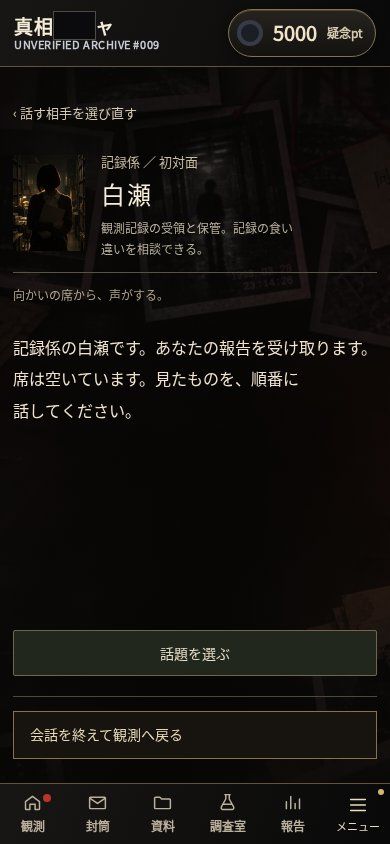
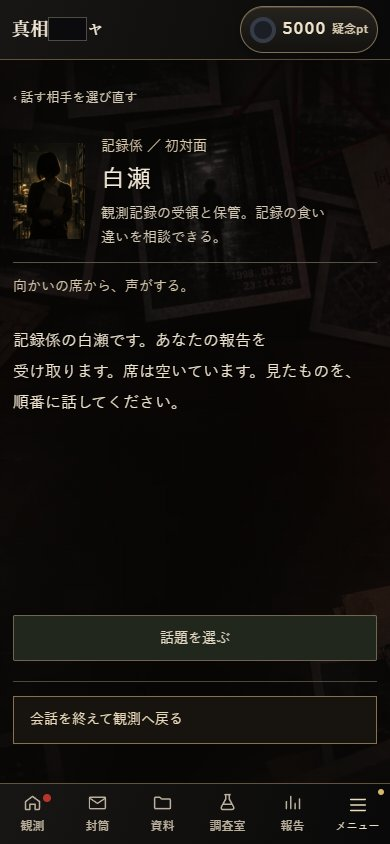
Improve colleague conversation readability (#254)

diff --git a/assets/observation.css b/assets/observation.css
@@ -79,7 +79,7 @@ body.watch-mind-quiet #watch-veil{display:none}
 .watch-people{display:grid;grid-template-columns:repeat(3,minmax(0,1fr));gap:10px;margin:16px 0}
 .watch-person{padding:0 0 14px;overflow:hidden;text-align:left;background:#141711;border:1px solid #575447;border-radius:2px;color:#e6dcc6;font-family:var(--f-body);cursor:pointer}
 .watch-person img{display:block;width:100%;height:auto;aspect-ratio:3/4;object-fit:cover}.watch-person b,.watch-person small{display:block;margin:8px 10px 0}.watch-person b{font-size:19px;font-weight:500}.watch-person small{font-size:12px;line-height:1.5;color:#c1b8a5}
-.watch-speaker{display:flex;align-items:center;gap:20px;padding-bottom:18px;border-bottom:1px solid #595345}.watch-speaker img{width:90px;height:120px;object-fit:cover;border-radius:2px}.watch-speaker>div{min-width:0}.watch-speaker small{font:13px/1.6 var(--f-body);color:#c7bba2}.watch-speaker h2{margin:4px 0 10px;font:500 25px/1.4 var(--f-body);letter-spacing:.15em}.watch-speaker p{margin:0;color:#b9b09e;font:12px/1.8 var(--f-body)}
+.watch-speaker{display:flex;align-items:center;gap:20px;padding-bottom:18px;border-bottom:1px solid #595345}.watch-speaker img{width:90px;height:120px;object-fit:cover;border-radius:2px}.watch-speaker>div{min-width:0}.watch-speaker small{font:14px/1.6 var(--f-body);color:#d9c9ab}.watch-speaker h2{margin:4px 0 10px;font:500 25px/1.4 var(--f-body);letter-spacing:.15em}.watch-speaker p{margin:0;color:#d5cab6;font:14px/1.7 var(--f-body)}
 .watch-conversation blockquote{margin:22px 0 26px;padding:0;border:0;min-height:6em;color:#eee3cf;font:16px/2 var(--f-body);overflow-wrap:anywhere}
 .watch-topics{display:grid;grid-template-columns:repeat(2,minmax(0,1fr));gap:8px}.watch-choice{min-height:48px;padding:10px 8px;border:1px solid #70664f;background:#22271e;border-radius:2px;color:#e5dbc6;font:14px/1.6 var(--f-body);cursor:pointer}
 .watch-exits{display:flex;gap:12px;margin-top:14px}.watch-exits button{flex:1;min-width:0;min-height:48px;font:13px/1.5 var(--f-body);white-space:normal}
@@ -94,14 +94,14 @@ body.watch-mind-quiet #watch-veil{display:none}
 .colleague-scene .watch-person{display:grid;grid-template-columns:74px minmax(0,1fr);gap:14px;padding:12px;align-items:center}
 .colleague-scene .watch-person img{width:74px;height:100px;object-fit:cover}
 .colleague-scene .watch-person b,.colleague-scene .watch-person small{margin:0 0 5px}
-.watch-person-description{display:block;font:13px/1.7 var(--f-body);color:#c9bfac}
-.watch-person-action{display:block;margin-top:7px;font:13px/1.5 var(--f-body);color:#ece0c5}
+.watch-person-description{display:block;font:14px/1.7 var(--f-body);color:#d7cdb9}
+.watch-person-action{display:block;margin-top:7px;font:14px/1.5 var(--f-body);color:#f0e4cc}
 .colleague-scene .watch-speaker{gap:16px;padding:12px 0}
 .colleague-scene .watch-speaker img{width:72px;height:96px}
 .colleague-scene .watch-speaker h1{font-size:24px;margin:3px 0 6px}
 .colleague-scene .watch-conversation blockquote{min-height:0;margin:16px 0 24px;font:16px/1.95 var(--f-body)}
-.watch-conversation-cue{color:#afa58f;font:12px/1.6 var(--f-body);margin:12px 0}
-.watch-selected-topic,.watch-action-label{font:13px/1.6 var(--f-body);color:#cec0a2;margin:12px 0 8px}
+.watch-conversation-cue{color:#d4c5aa;font:14px/1.6 var(--f-body);margin:12px 0}
+.watch-selected-topic,.watch-action-label{font:14px/1.6 var(--f-body);color:#dfcfb1;margin:12px 0 8px}
 .watch-selected-topic{border-left:2px solid #75654b;padding-left:10px}
 .watch-introduction{padding:12px;background:#191b16;font:14px/1.8 var(--f-body);color:#d8ceb9}
 .watch-topic-selection>.watch-choice{width:100%;margin:0 0 8px}
@@ -119,9 +119,9 @@ body.watch-mind-quiet #watch-veil{display:none}
 
 .colleague-scene .watch-person{padding:10px}
 .colleague-scene .watch-person b{font:500 19px/1.3 var(--f-body);margin-bottom:3px}
-.colleague-scene .watch-person small{font:12px/1.5 var(--f-body);margin-bottom:3px}
-.colleague-scene .watch-person-description{font:13px/1.6 var(--f-body)}
-.colleague-scene .watch-room-note{font:13px/1.7 var(--f-body);margin:10px 0}
+.colleague-scene .watch-person small{font:14px/1.5 var(--f-body);margin-bottom:3px;color:#d6cab5}
+.colleague-scene .watch-person-description{font:14px/1.6 var(--f-body)}
+.colleague-scene .watch-room-note{font:14px/1.7 var(--f-body);margin:10px 0}
 
 /* An active anomaly is visible immediately; strain deepens the edge bleed.
    Only the image scales, so native-image hit coordinates remain valid. */

diff --git a/docs/CURRENT-SPEC.md b/docs/CURRENT-SPEC.md
@@ -62,6 +62,7 @@
 - 発見／異変位置での接触／回線遮断／証言比較／封印など、種類に応じた手順で明示的に完了する。完了報酬は一度きり。低刺激モードでは刺激表現だけを抑える。
 - 侵入調査の媒体名・選択済み証拠・痕跡操作の補助文と、保管記録の写真注記・レアリティは、暗い面でも14px以上で表示する。長い文字は折り返し、狭幅や短い横画面でも完了操作へスクロールで届く。判定・保存・報酬は表示調整で変えない。
 - 課員は白瀬（記録係）、榊（設備担当）、三輪（先輩調査員）。最初の挨拶と話題ごとの返答、会話履歴、回復クールダウンは保存。会話だけで無限回復やポイントを稼がせない。
+- 課内会話の相手一覧では役割・面識、説明、声をかける操作を14px以上で示す。会話中の人物説明・状況・選択話題も暗い面で読める14px以上とし、狭い画面では折り返して表示する。会話内容、保存、回復、ptは表示調整で変えない。
 - 課内地位は RANK 1〜3／4〜6／7〜10／11〜14／15〜17／18〜20 の6区分。上位になるほど記録の矛盾が深まるが、既存の観測抽選を直接増加させない。
 - RANK 4/7/11/15/18では三人から人事の矛盾を収集できる。実際に聴いた証言のみ人物図鑑へ出し、三者の照合で一度だけ確定・受信箱へ通知。未入手の証言・結論は表示しない。
 - 取得済みの都市伝説事件には、再鑑定、関連する別事件との照合、仮説報告、未登録立会人・未来報告の一部が接続する。未入手の名称・画像はDOMに出さない。

diff --git a/docs/EXPERIENCE-DESIGN.md b/docs/EXPERIENCE-DESIGN.md
@@ -60,6 +60,8 @@
 
 課内会話：1人の肖像、誰が話しているか、質問、返答、別の話題。小さなテキスト行間を削って詰め込まない。三者照合は明示操作であり、会話を開いただけで報酬にしない。
 
+会話の相手を選ぶ画面では、役割・面識・相手の説明・声をかける操作を名前と同じ読み順で追えるようにする。会話中の状況と選んだ話題も小さな飾り文字にせず、暗い背景に沈まない明るさと14px以上の文字で示す。行が増える場合はスクロールし、肖像や操作に文字を重ねない。
+
 ## 4. ホラーの基本手法（再利用可）
 
 1. **日常の成立**：まず異常のない空間として読み取れること。普通の駅、廊下、食卓、人事台帳。
